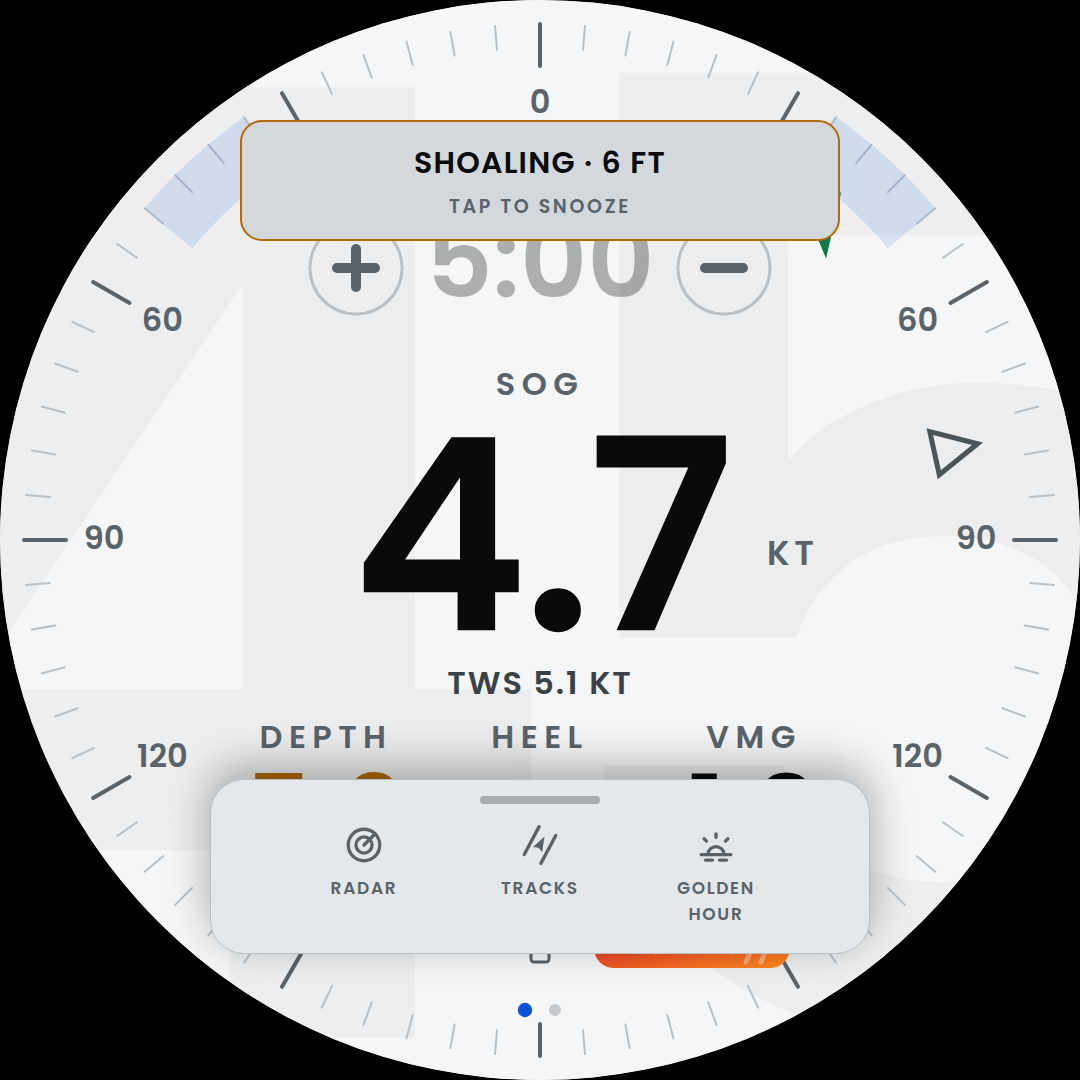
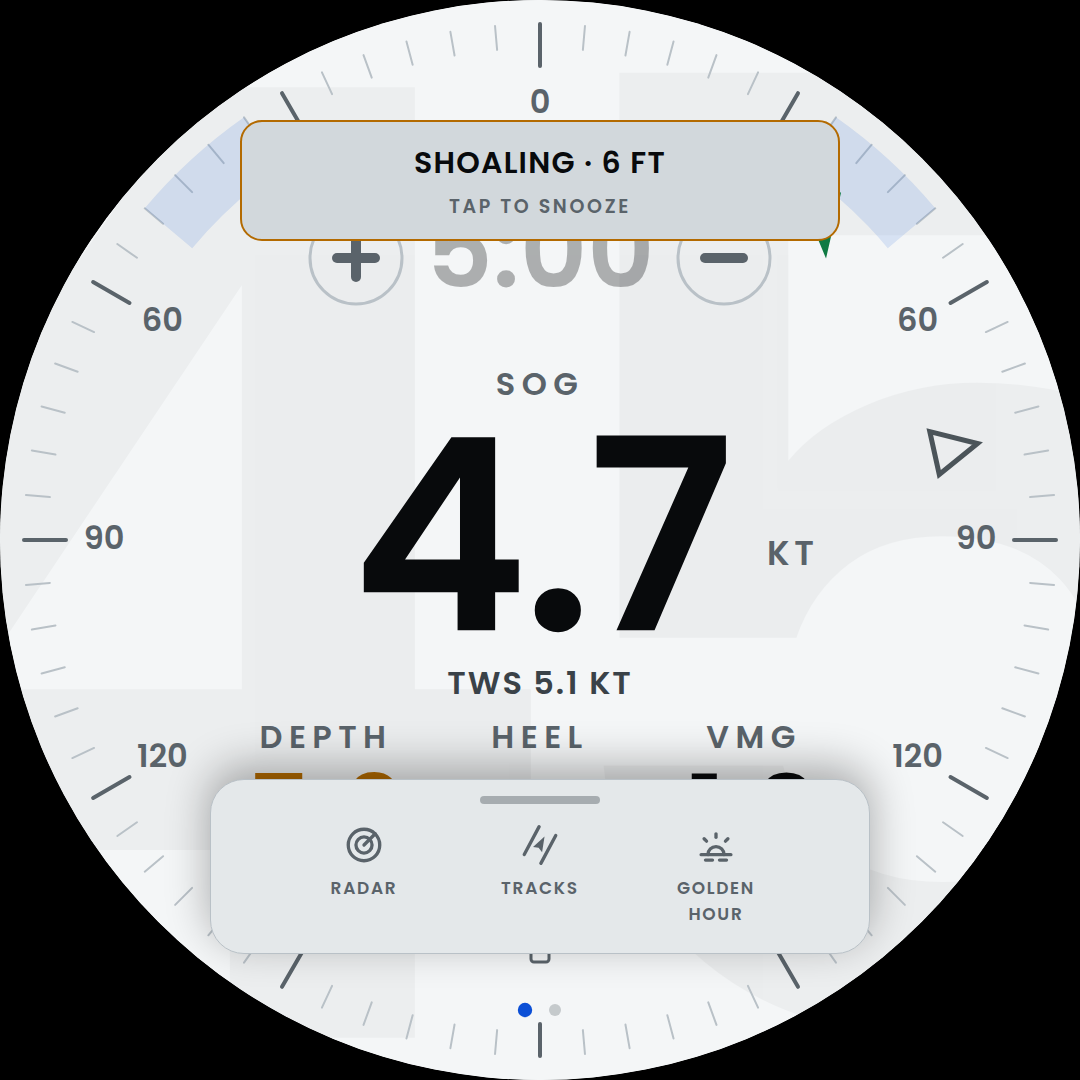
RACE PRO above the clock, the clock up a smidge, the box a size larger
The pill goes where the START word was, centred at 186, and the clock
row rises ten to 258 with its +/- - the race set reads as one stack. The
word is gone: the clock says its own state, grey while idle, red in the
last minute, counting up once racing, pulsing once finished. The box
starts at 312, straight under the sync buttons, and takes the ten it
gained: 334 tall, values at 84px.

The pill gClaims on pointerdown as the +/- do, since it is back in
timerTap()'s third.

And the alert banner gClaims too. Its click handler stopped propagation
of the click, but the gesture judge listens for pointerup on the capture
phase, so a click handler was never in its way: TAP TO SNOOZE on a
shoaling warning was also a tap on the clock - it started the countdown,
or during one synced it to the minute. That is what the first attempt
at this placement ran into.

Claude-Session: https://claude.ai/code/session_01BmvizJiQLmvpEFfAxzaKX2

Changed region(s): [[0.3972, 0.2139, 0.7333, 0.3056], [0.275, 0.2139, 0.3667, 0.3056], [0.55, 0.8861, 0.7333, 0.9167]]

diff --git a/confluence_helm.html b/confluence_helm.html
@@ -136,12 +136,12 @@ body.night #mark{opacity:.07}
 .rp-txt{font-size:21px;font-weight:800;font-style:italic;letter-spacing:.18em;fill:#fff}
 .rp-btn .stripe{stroke:#fff;stroke-width:5;opacity:.35;stroke-linecap:round}
 .rp-btn:active .pill{opacity:.75}
-.rp-box{opacity:0;transform:scale(.25);transform-origin:692px 948px;pointer-events:none;
+.rp-box{opacity:0;transform:scale(.25);transform-origin:540px 186px;pointer-events:none;
   transition:transform .22s cubic-bezier(.2,.8,.3,1),opacity .16s}
 .rp-box.on{opacity:1;transform:scale(1);pointer-events:auto}
 .rp-face{fill:var(--panel);stroke:url(#rp-grad);stroke-width:3}
 .rp-l{font-size:24px;font-weight:var(--w-lbl);letter-spacing:.18em;fill:var(--label)}
-.rp-v{font-size:80px;font-weight:var(--w-val);fill:var(--ink)}
+.rp-v{font-size:84px;font-weight:var(--w-val);fill:var(--ink)}
 .rp-u{font-size:24px;font-weight:600;letter-spacing:.14em;fill:var(--label)}
 .rp-bias{font-size:36px;font-weight:var(--w-val);fill:var(--ink)}
 .pbtn .ring{fill:none;stroke:var(--label);stroke-width:2.5}
@@ -1353,17 +1353,20 @@ document.body.className = THEME_EFF==='day' ? '' : THEME_EFF;
     <path id="awa-tri" d="M540 80 L572 140 L540 124 L508 140 Z" fill="var(--accent)"/>
   </g>
 
-  <text id="timer-lbl" class="label" x="540" y="196" text-anchor="middle">START</text>
-  <text id="timer" class="value" x="540" y="268" text-anchor="middle">5:00</text>
+  <!-- The clock at 258, up from 268, with RACE PRO above it where the
+       START word was. The clock says its own state - grey while idle,
+       red in the last minute, counting up once racing, pulsing once
+       finished - so the word was saying it twice. -->
+  <text id="timer" class="value" x="540" y="258" text-anchor="middle">5:00</text>
   <!-- sync: nudge the countdown a whole minute either way -->
   <g id="t-plus" class="tbtn">
-    <circle cx="356" cy="268" r="46"/>
-    <rect x="332" y="263" width="48" height="10" rx="5"/>
-    <rect x="351" y="244" width="10" height="48" rx="5"/>
+    <circle cx="356" cy="258" r="46"/>
+    <rect x="332" y="253" width="48" height="10" rx="5"/>
+    <rect x="351" y="234" width="10" height="48" rx="5"/>
   </g>
   <g id="t-minus" class="tbtn">
-    <circle cx="724" cy="268" r="46"/>
-    <rect x="700" y="263" width="48" height="10" rx="5"/>
+    <circle cx="724" cy="258" r="46"/>
+    <rect x="700" y="253" width="48" height="10" rx="5"/>
   </g>
 
   <!-- 432 tucked this into the digits' negative space, which worked while
@@ -1371,7 +1374,7 @@ document.body.className = THEME_EFF==='day' ? '' : THEME_EFF;
        or APPARENT WIND. 386 clears them: dominant-baseline:middle puts
        the digits' ink at 432..629, not at the 359 the y attribute alone
        would suggest, so the label's own ink at 373..395 has 37px of air
-       under it. It clears the timer's +/- buttons at 314 too. -->
+       under it. It clears the timer's +/- buttons at 304 too. -->
   <text id="spd-label" class="label" x="540" y="386" text-anchor="middle">SOG</text>
   <text id="spd" class="huge" x="540" y="556" text-anchor="middle">0.0</text>
   <!-- Beside the number, not under it, and sharing its y: every text on
@@ -1450,28 +1453,24 @@ document.body.className = THEME_EFF==='day' ? '' : THEME_EFF;
   </g>
 
 
-  <!-- RACE PRO. A permanent pill at the foot of the dial, beside the
-       padlock, so the band under the +/- circles is free and the box can
-       start at 322, straight under them. Not under the clock, where it
-       was: that band is what caps the box. Not above the clock, where
-       START is: the alert banner ends at 240 and sat over it, and a
-       shoaling warning is exactly what turns up on a start line - in
-       the demo the tap went through the banner to the clock and started
-       the countdown. Down here nothing covers it. 594..790 at 928..968:
-       its far corner is 496 from the centre, which is where the tick
-       ring starts, and its near edge is 18 clear of the lock's circle,
-       which ends at 576. No gClaim: this is
-       below timerTap()'s third, a tap here is nobody else's, and a
-       swipe up for the dock that starts on it never releases on it.
-       Tap the pill and the box opens; the countdown opens it by
-       itself and the gun closes it. The box covers the big cell -
-       184..896 by 322..646 takes in a 4-digit number and its unit - and
-       carries what it covers in its first slot, so nothing is lost:
+  <!-- RACE PRO. A permanent pill above the clock, where the START word
+       was, at 186: the race set reads as one stack - pill, clock, sync
+       - and the band under the +/- circles is free, so the box starts
+       at 312, straight under them. The alert banner (120..240) does sit
+       over the pill while an alert is up; the countdown opens the box
+       by itself, so the banner costs the manual tap and nothing else,
+       and it snoozes on a tap. (Which used to start the countdown: see
+       the banner's gClaim.) The pill gClaims on pointerdown as the +/-
+       do, since it is in timerTap()'s third.
+       Tap the pill and the box opens; the countdown opens it by itself
+       and the gun closes it. The box covers the big cell - 184..896 by
+       312..646 takes in a 4-digit number and its unit - and carries
+       what it covers in its first slot, so nothing is lost:
            SOG 4.6 KT   |   LINE 45 M   |   BURN +3 S
                      (P)   PIN +12   (B)
-       Values at 80px, up from 64 when the pill sat under the clock.
-       Declared after the tap rects so the box, not the big cell's rect
-       under it, gets the taps - which is what lets P and B work. -->
+       Values at 84px. Declared after the tap rects so the box, not the
+       big cell's rect under it, gets the taps - which is what lets P
+       and B work. -->
   <defs>
     <linearGradient id="rp-grad" x1="0" y1="0" x2="1" y2="1">
       <stop offset="0" stop-color="#E0242A"/><stop offset="1" stop-color="#FF8A1E"/>
@@ -1479,36 +1478,36 @@ document.body.className = THEME_EFF==='day' ? '' : THEME_EFF;
   </defs>
   <g id="race">
     <g id="rp-btn" class="rp-btn">
-      <rect class="pill" x="594" y="928" width="196" height="40" rx="20" fill="url(#rp-grad)"/>
-      <path class="stripe" d="M758 934 L746 962"/><path class="stripe" d="M773 934 L761 962"/>
-      <text class="rp-txt" x="678" y="948" text-anchor="middle">RACE PRO</text>
+      <rect class="pill" x="442" y="166" width="196" height="40" rx="20" fill="url(#rp-grad)"/>
+      <path class="stripe" d="M606 172 L594 200"/><path class="stripe" d="M621 172 L609 200"/>
+      <text class="rp-txt" x="526" y="186" text-anchor="middle">RACE PRO</text>
     </g>
     <g id="rp-box" class="rp-box">
-      <rect class="rp-face" x="184" y="322" width="712" height="324" rx="24"/>
-      <text id="rp-c0-l"   class="rp-l" x="300" y="362" text-anchor="middle">SOG</text>
-      <text id="rp-c0"     class="rp-v" x="300" y="424" text-anchor="middle">––</text>
-      <text id="rp-c0-u"   class="rp-u" x="300" y="480" text-anchor="middle"></text>
-      <text                class="rp-l" x="540" y="362" text-anchor="middle">LINE</text>
-      <text id="rp-line"   class="rp-v" x="540" y="424" text-anchor="middle">––</text>
-      <text id="rp-line-u" class="rp-u" x="540" y="480" text-anchor="middle">M</text>
-      <text                class="rp-l" x="780" y="362" text-anchor="middle">BURN</text>
-      <text id="rp-burn"   class="rp-v" x="780" y="424" text-anchor="middle">––</text>
-      <text                class="rp-u" x="780" y="480" text-anchor="middle">S</text>
-      <text                class="rp-l" x="540" y="536" text-anchor="middle">LINE BIAS</text>
-      <text id="rp-bias"   class="rp-bias" x="540" y="590" text-anchor="middle">––</text>
+      <rect class="rp-face" x="184" y="312" width="712" height="334" rx="24"/>
+      <text id="rp-c0-l"   class="rp-l" x="300" y="352" text-anchor="middle">SOG</text>
+      <text id="rp-c0"     class="rp-v" x="300" y="416" text-anchor="middle">––</text>
+      <text id="rp-c0-u"   class="rp-u" x="300" y="474" text-anchor="middle"></text>
+      <text                class="rp-l" x="540" y="352" text-anchor="middle">LINE</text>
+      <text id="rp-line"   class="rp-v" x="540" y="416" text-anchor="middle">––</text>
+      <text id="rp-line-u" class="rp-u" x="540" y="474" text-anchor="middle">M</text>
+      <text                class="rp-l" x="780" y="352" text-anchor="middle">BURN</text>
+      <text id="rp-burn"   class="rp-v" x="780" y="416" text-anchor="middle">––</text>
+      <text                class="rp-u" x="780" y="474" text-anchor="middle">S</text>
+      <text                class="rp-l" x="540" y="532" text-anchor="middle">LINE BIAS</text>
+      <text id="rp-bias"   class="rp-bias" x="540" y="588" text-anchor="middle">––</text>
       <!-- start line pings: the two ends of the line either side of the
            bias, which is why PIN +12 reads as a sentence. The drawn ring
            is 18 px; the transparent circle under it is the tap target. -->
       <g id="pings">
         <g id="ping-pin" class="pbtn">
-          <circle class="hit" cx="400" cy="590" r="30"/>
-          <circle class="ring" cx="400" cy="590" r="20"/>
-          <text x="400" y="590" text-anchor="middle">P</text>
+          <circle class="hit" cx="400" cy="588" r="30"/>
+          <circle class="ring" cx="400" cy="588" r="20"/>
+          <text x="400" y="588" text-anchor="middle">P</text>
         </g>
         <g id="ping-boat" class="pbtn">
-          <circle class="hit" cx="680" cy="590" r="30"/>
-          <circle class="ring" cx="680" cy="590" r="20"/>
-          <text x="680" y="590" text-anchor="middle">B</text>
+          <circle class="hit" cx="680" cy="588" r="30"/>
+          <circle class="ring" cx="680" cy="588" r="20"/>
+          <text x="680" y="588" text-anchor="middle">B</text>
         </g>
       </g>
     </g>
@@ -3053,7 +3052,7 @@ function clock(ms){
 }
 
 function tick(){
-  const el=$('timer'), lb=$('timer-lbl');
+  const el=$('timer');
   let ms, lbl, dim=false, hot=false;
 
   if(tState==='idle'){ ms=tLeft; lbl='START'; dim=true; }
@@ -3066,7 +3065,6 @@ function tick(){
   else { ms=tFinal; lbl='FINISH'; }
 
   el.textContent=clock(Math.max(0,ms));
-  lb.textContent=lbl;
   el.classList.toggle('stale',dim);
   el.classList.toggle('alarm',hot);
   // a finished time pulses so it is obviously frozen, not still running
@@ -3480,11 +3478,12 @@ function timerTap(){
   }, DBL);
 }
 
-/* RACE PRO's pill: a tap toggles the box. The same 24 px tap-or-swipe
-   rule as the panel's tiles, so a swipe for the dock that starts on it
-   is not also a tap. */
+/* RACE PRO's pill: a tap toggles the box. gClaim on pointerdown, as
+   the +/- do: it sits in timerTap()'s third, and the gesture judge runs
+   on the capture phase, so pointerup is too late to opt out. The 24 px
+   tap-or-swipe rule on top, so a drag that ends on it is not a tap. */
 let rpPt=null;
-$('rp-btn').addEventListener('pointerdown',e=>{ rpPt={x:e.clientX,y:e.clientY}; });
+$('rp-btn').addEventListener('pointerdown',e=>{ gClaim(); rpPt={x:e.clientX,y:e.clientY}; });
 $('rp-btn').addEventListener('pointerup',e=>{
   if(!rpPt) return; const far=Math.hypot(e.clientX-rpPt.x,e.clientY-rpPt.y)>24; rpPt=null;
   if(!far) rpOpen=!rpOpen; });
@@ -4424,6 +4423,12 @@ function alertPaint(){
   $('al-t').textContent=top.a.text;
   $('al-s').textContent=top.a.sub||'TAP TO SNOOZE';
 }
+/* gClaim on pointerdown, not only stopPropagation on click: the gesture
+   judge listens for pointerup on the capture phase, so a click handler
+   cannot stop it, and the banner sits in timerTap()'s third - TAP TO
+   SNOOZE on a shoaling warning was also a tap on the clock, which
+   started the countdown, or during one synced it to the minute. */
+$('alert').addEventListener('pointerdown',gClaim);
 $('alert').addEventListener('click',e=>{
   e.stopPropagation();
   const top=alertTop(); if(!top) return;

diff --git a/docs/readings.md b/docs/readings.md
@@ -168,13 +168,15 @@ stays against the last digit.
 
 ## RACE PRO
 
-A pill at the foot of the dial, beside the padlock, in the racing
-red-to-orange, that is always there. Tap it and it opens into a box over
-the big number; the countdown opens it by itself, and the gun closes it.
-Reset closes it too. It lives at the foot rather than under the clock so
-the box can start straight under the sync buttons — which is what lets
-its numbers be as big as they are — and rather than above the clock
-because the shallow-water banner sits there.
+A pill above the countdown, where the START word used to be, in the
+racing red-to-orange, that is always there: pill, clock and sync buttons
+read as one stack. Tap it and it opens into a box over the big number;
+the countdown opens it by itself, and the gun closes it. Reset closes it
+too. It sits above the clock rather than under it so the box can start
+straight under the sync buttons, which is what lets its numbers be as
+big as they are. The shallow-water banner does cover it while an alert
+is up; the countdown still opens the box on its own, and the banner
+snoozes on a tap.
 
 ![The RACE PRO box during a countdown](img/dial-countdown.png)
 
